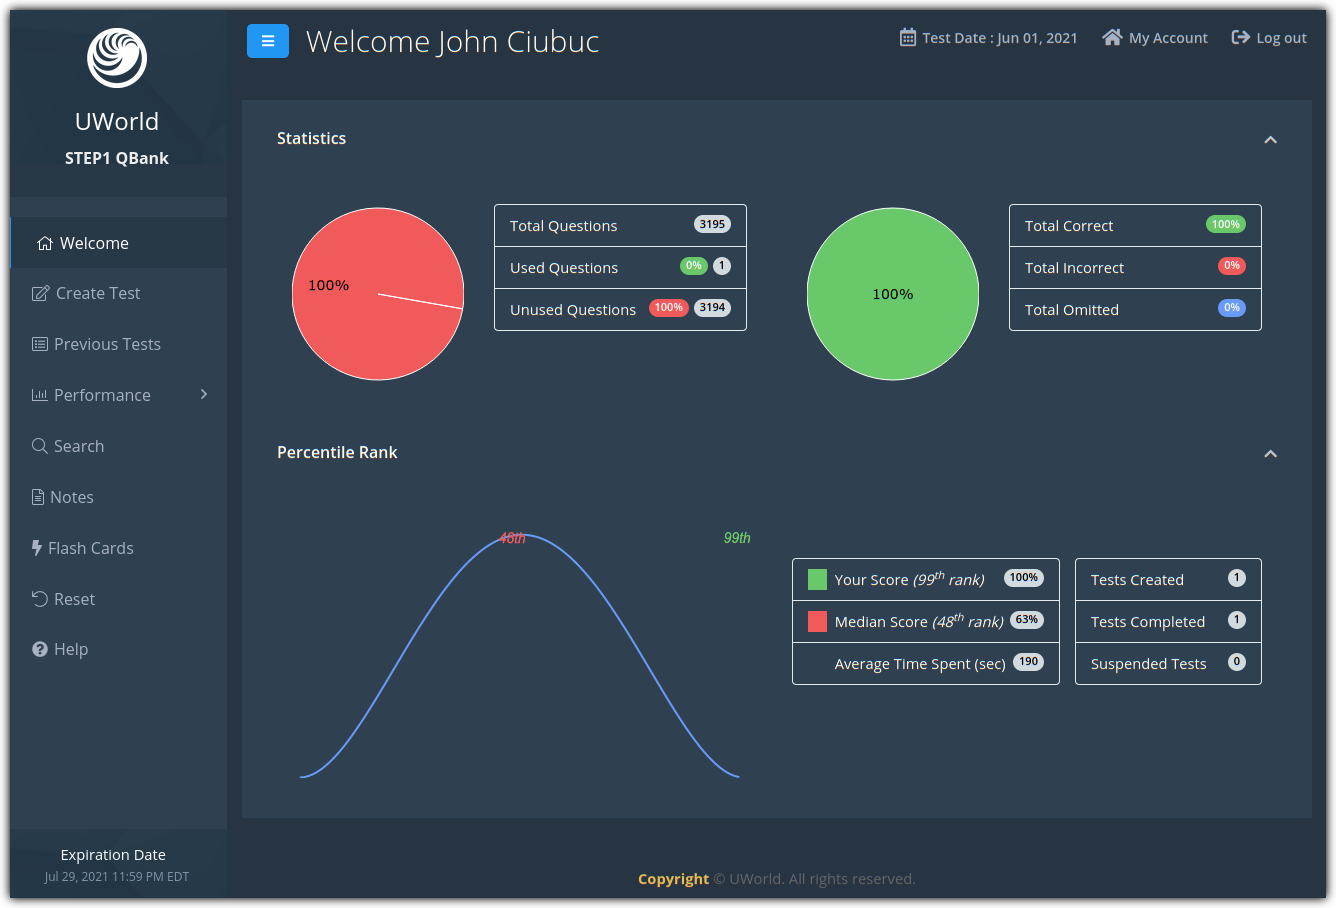
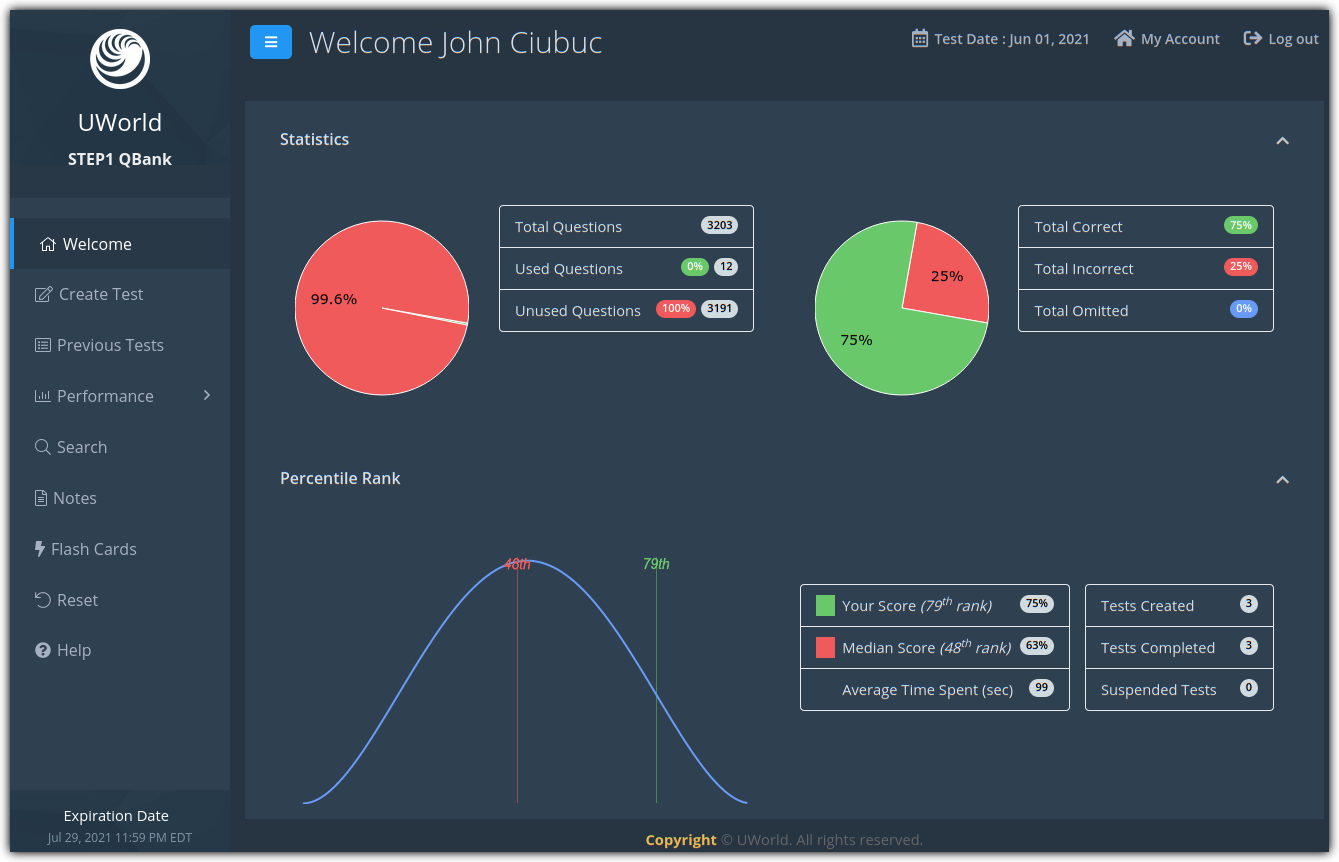
UWorld: Fixed graph on main page. Fixed buttons during test looking like they were being pressed

diff --git a/darker-uworld.user.css b/darker-uworld.user.css
@@ -2,7 +2,7 @@
 @name         Darker UWorld
 @namespace    https://raw.githubusercontent.com/JohnCiubuc/userstyles/master/darker-uworld.user.css
 @homepageURL  https://raw.githubusercontent.com/JohnCiubuc/userstyles/master/darker-uworld.user.css
-@version      1.0.4
+@version      1.0.5
 @license      Apache-1.1
 @description  Adds a dark theme to UWorld
 @author       JohnCiubuc (https://openusercss.org/profile/5ecec9e4fbfa2b0c00b8b872)
@@ -108,10 +108,6 @@ url-prefix("https://www.uworld.com/courseapp/usmle/performance") {
     .modal-header.has-error {
         background-color: #a22a37;
     }
-
-    .hidden-xs button[style] {
-        background-color: var(--uw-dark)!important;
-    }
     .col-xs-12 div[class="row"] div[style] {
         background-color: var(--uw-med)!important;
     }
@@ -197,9 +193,11 @@ url-prefix("https://www.uworld.com/courseapp/usmle/performance") {
     g rect {
         width: 10;
     }
-    rect {
-        fill: var(--uw-med);
-        width: 10;
+    svg rect:nth-child(2),
+    svg g g:nth-child(1) rect,
+    svg g g:nth-child(3) rect,
+    svg g g:nth-child(5 ) rect{
+        fill: var(--uw-med)!important;
     }
     g text {
         stroke: none
